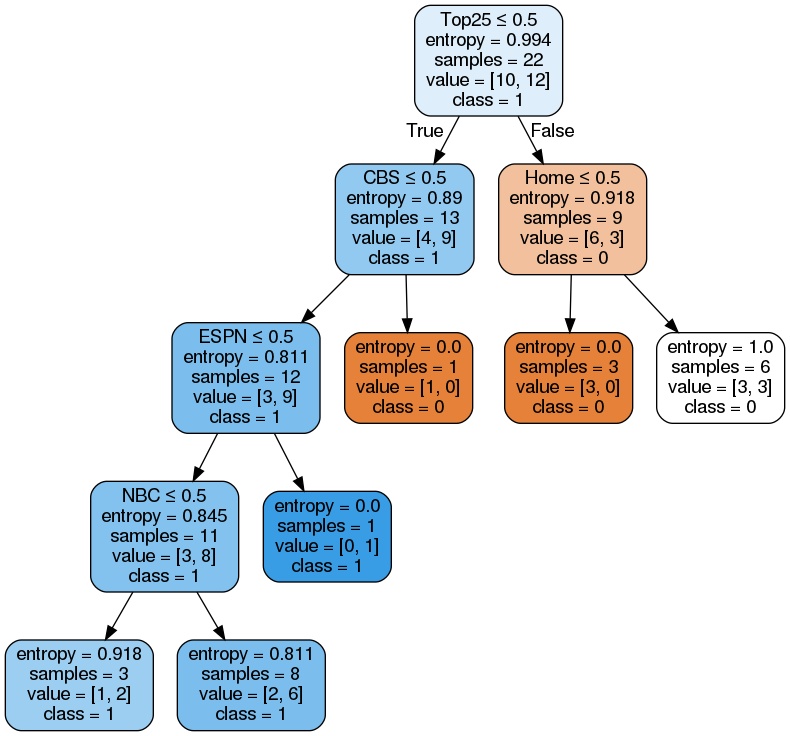
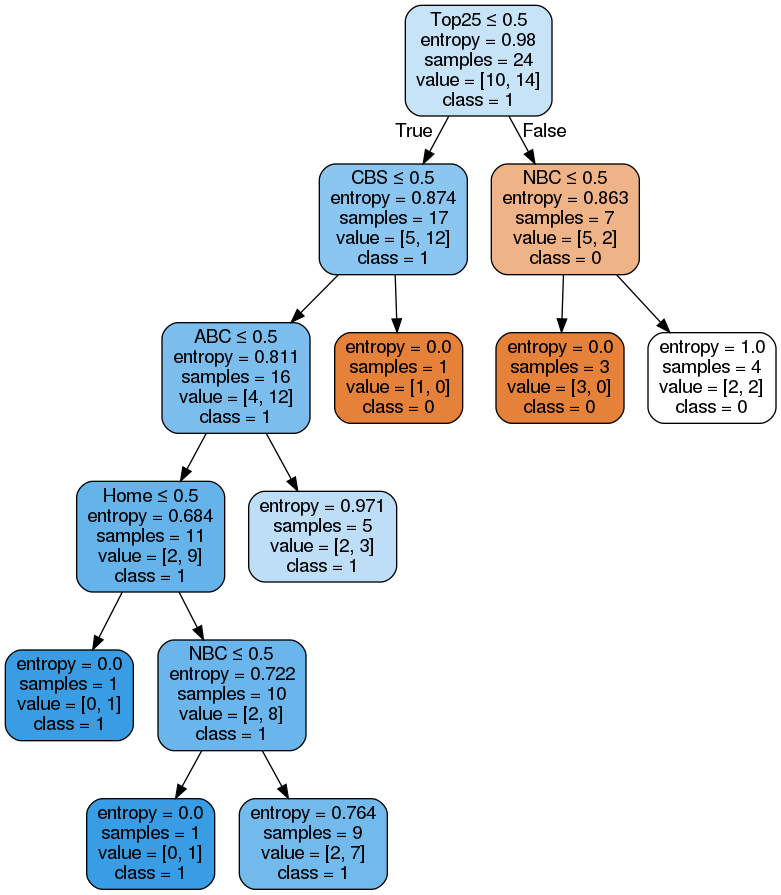
Fixed
Corrected random split of decision tree

diff --git a/hw_3.py b/hw_3.py
@@ -9,26 +9,27 @@ from sklearn.tree import export_graphviz
 from sklearn.externals.six import StringIO
 from IPython.display import Image
 import pydotplus
+from chefboost import Chefboost as chef
 
-# train_data = {'Home': [1,0,1,1,0,1,1,0,0,1,0,0,0,1,1,1,1,0,1,1,1,1,1,0],
-        # 'Top25': [0,0,1,0,1,0,1,0,0,0,0,1,0,0,0,0,0,0,1,0,0,0,1,1],
-        # 'NBC': [1, 0, 1, 1, 0, 1, 1, 0, 0, 1, 1, 0, 0, 1, 1, 1, 0, 0, 1, 1, 0, 1, 1, 0],
-        # 'ESPN': [0, 0, 0, 0, 0, 0, 0, 0, 0, 0, 0, 0, 0, 0, 0, 0, 1, 0, 0, 0, 0, 0, 0, 0],
-        # 'FOX': [0, 0, 0, 0, 0, 0, 0, 0, 0, 0, 0, 1, 0, 0, 0, 0, 0, 0, 0, 0, 0, 0, 0, 0],
-        # 'ABC': [0, 1, 0, 0, 1, 0, 0, 1, 1, 0, 0, 0, 1, 0, 0, 0, 0, 1, 0, 0, 0, 0, 0, 1],
-        # 'CBS': [0, 0, 0, 0, 0, 0, 0, 0, 0, 0, 0, 0, 0, 0, 0, 0, 0, 0, 0, 0, 1, 0, 0, 0],
-        # 'Win': [1,1,1,1,0,1,1,1,1,1,1,0,0,1,0,0,1,0,0,1,0,1,0,0]
-        # }
+train_data = {'Home': [1,0,1,1,0,1,1,0,0,1,0,0,0,1,1,1,1,0,1,1,1,1,1,0],
+        'Top25': [0,0,1,0,1,0,1,0,0,0,0,1,0,0,0,0,0,0,1,0,0,0,1,1],
+        'NBC': [1, 0, 1, 1, 0, 1, 1, 0, 0, 1, 1, 0, 0, 1, 1, 1, 0, 0, 1, 1, 0, 1, 1, 0],
+        'ESPN': [0, 0, 0, 0, 0, 0, 0, 0, 0, 0, 0, 0, 0, 0, 0, 0, 1, 0, 0, 0, 0, 0, 0, 0],
+        'FOX': [0, 0, 0, 0, 0, 0, 0, 0, 0, 0, 0, 1, 0, 0, 0, 0, 0, 0, 0, 0, 0, 0, 0, 0],
+        'ABC': [0, 1, 0, 0, 1, 0, 0, 1, 1, 0, 0, 0, 1, 0, 0, 0, 0, 1, 0, 0, 0, 0, 0, 1],
+        'CBS': [0, 0, 0, 0, 0, 0, 0, 0, 0, 0, 0, 0, 0, 0, 0, 0, 0, 0, 0, 0, 1, 0, 0, 0],
+        'Win': [1,1,1,1,0,1,1,1,1,1,1,0,0,1,0,0,1,0,0,1,0,1,0,0]
+        }
 
-# test_data = {'Home': [1,1,0,0,1,0,1,1,1,0,1,0],
-        # 'Top25': [0,1,0,0,0,0,1,0,0,1,0,1],
-        # 'NBC': [1,1,0,0,1,0,1,1,1,0,1,0],
-        # 'ESPN': [0,0,1,0,0,0,0,0,0,0,0,0],
-        # 'FOX': [0,0,0,1,0,0,0,0,0,0,0,0],
-        # 'ABC': [0,0,0,0,0,1,0,0,0,1,0,1],
-        # 'CBS': [0,0,0,0,0,0,0,0,0,0,0,0],
-        # 'Win': [1,0,1,1,1,1,1,1,1,0,1,0]
-        # }
+test_data = {'Home': [1,1,0,0,1,0,1,1,1,0,1,0],
+        'Top25': [0,1,0,0,0,0,1,0,0,1,0,1],
+        'NBC': [1,1,0,0,1,0,1,1,1,0,1,0],
+        'ESPN': [0,0,1,0,0,0,0,0,0,0,0,0],
+        'FOX': [0,0,0,1,0,0,0,0,0,0,0,0],
+        'ABC': [0,0,0,0,0,1,0,0,0,1,0,1],
+        'CBS': [0,0,0,0,0,0,0,0,0,0,0,0],
+        'Win': [1,0,1,1,1,1,1,1,1,0,1,0]
+        }
 
 test_train_data = {'Home': [1,0,1,1,0,1,1,0,0,1,0,0,0,1,1,1,1,0,1,1,1,1,1,0,1,1,0,0,1,0,1,1,1,0,1,0],
         'Top25': [0,0,1,0,1,0,1,0,0,0,0,1,0,0,0,0,0,0,1,0,0,0,1,1,0,1,0,0,0,0,1,0,0,1,0,1],
@@ -40,18 +41,27 @@ test_train_data = {'Home': [1,0,1,1,0,1,1,0,0,1,0,0,0,1,1,1,1,0,1,1,1,1,1,0,1,1,
         'Win':[1,1,1,1,0,1,1,1,1,1,1,0,0,1,0,0,1,0,0,1,0,1,0,0,1,0,1,1,1,1,1,1,1,0,1,0]
         }
 
+df_train = pd.DataFrame(data=train_data)
+df_test = pd.DataFrame(data=test_data)
 df_test_train = pd.DataFrame(data=test_train_data)
 
 def main():
+    # config = {'algorithm': 'ID3'}
+    # test_instance = [1,0,1,0,0,0,0,1]
+    # model = chef.fit(df_train, config)
+    # prediction = chef.predict(model, test_instance)
+    # print(prediction)
+
     feature_cols = ['Home', 'Top25', 'NBC', 'ESPN', 'FOX', 'ABC', 'CBS']
-    X = df_test_train[feature_cols]
-    y = df_test_train.Win
-    X_train, X_test, y_train, y_test = train_test_split(X,y,test_size=(14/38),random_state=None)
+    x_train = df_train[feature_cols]
+    y_train = df_train.Win
+    x_test = df_test[feature_cols]
+    y_test = df_test.Win
     clf = DecisionTreeClassifier(criterion="entropy")
-    clf = clf.fit(X_train, y_train)
-    y_pred = clf.predict(X_test)
-    print('X_train',X_train)
-    print('X_test',X_test)
+    clf = clf.fit(x_train, y_train)
+    y_pred = clf.predict(x_test)
+    print('x_train',x_train)
+    print('x_test',x_test)
     print(y_pred)
     print('Accuracy:',metrics.accuracy_score(y_test,y_pred))
     dot_data = StringIO()
